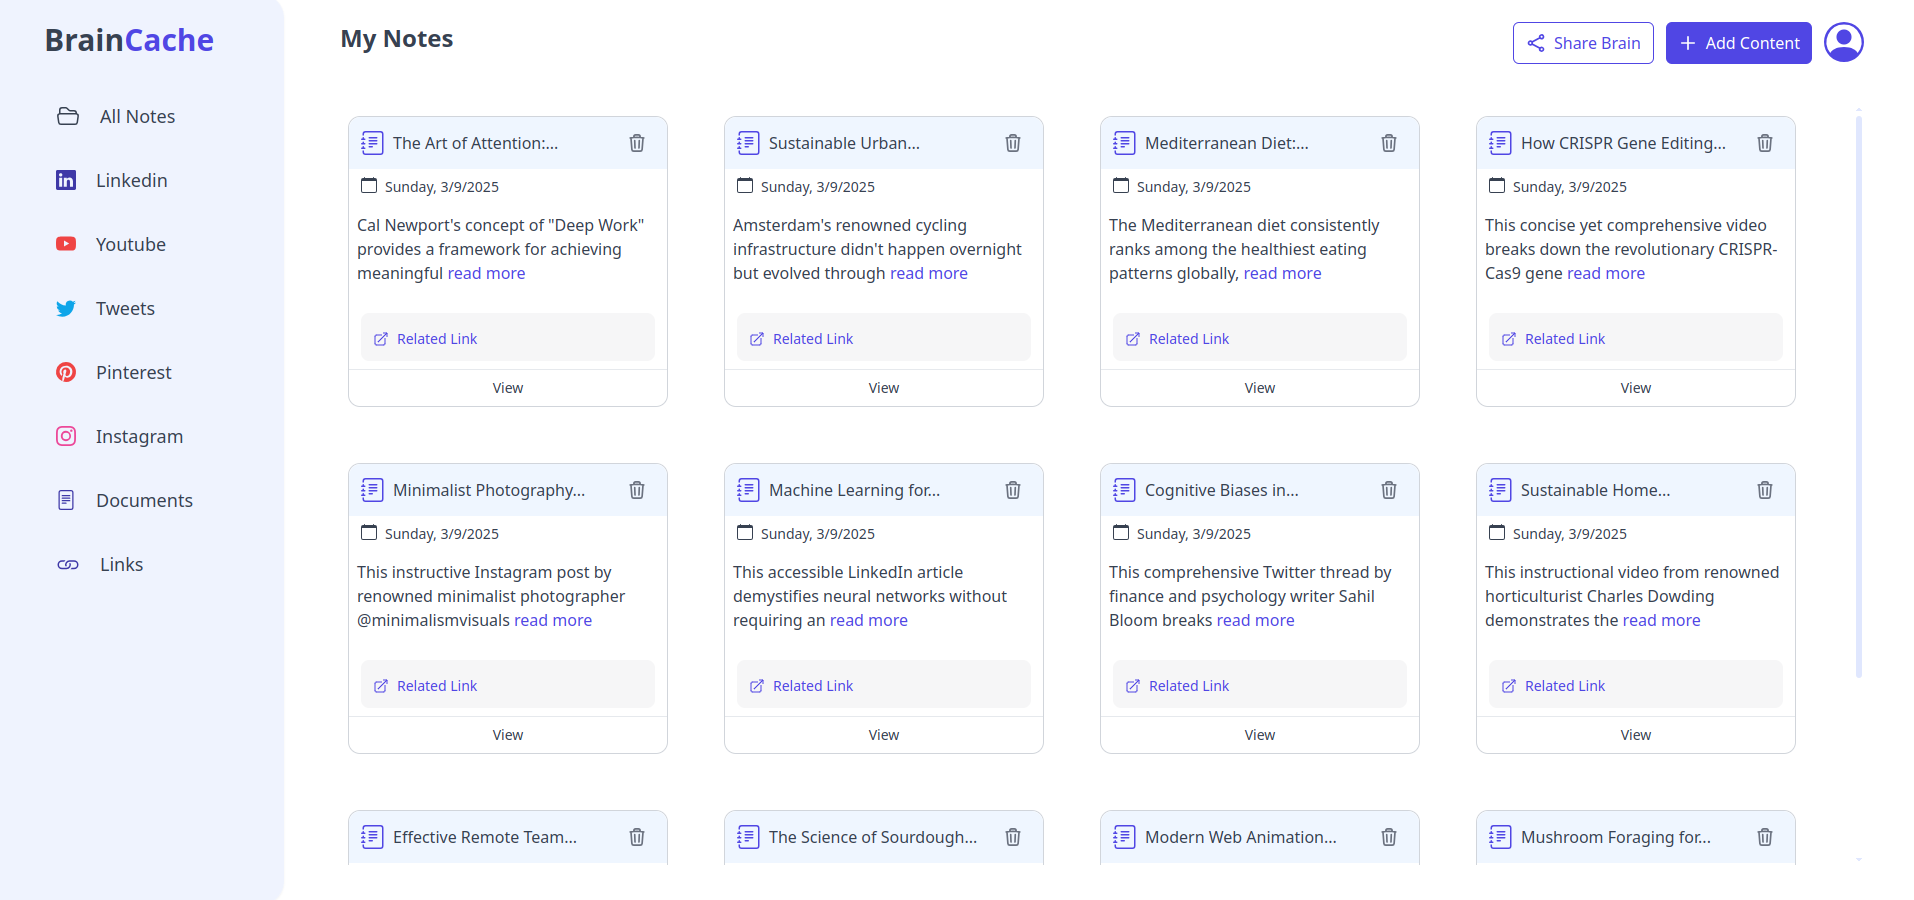
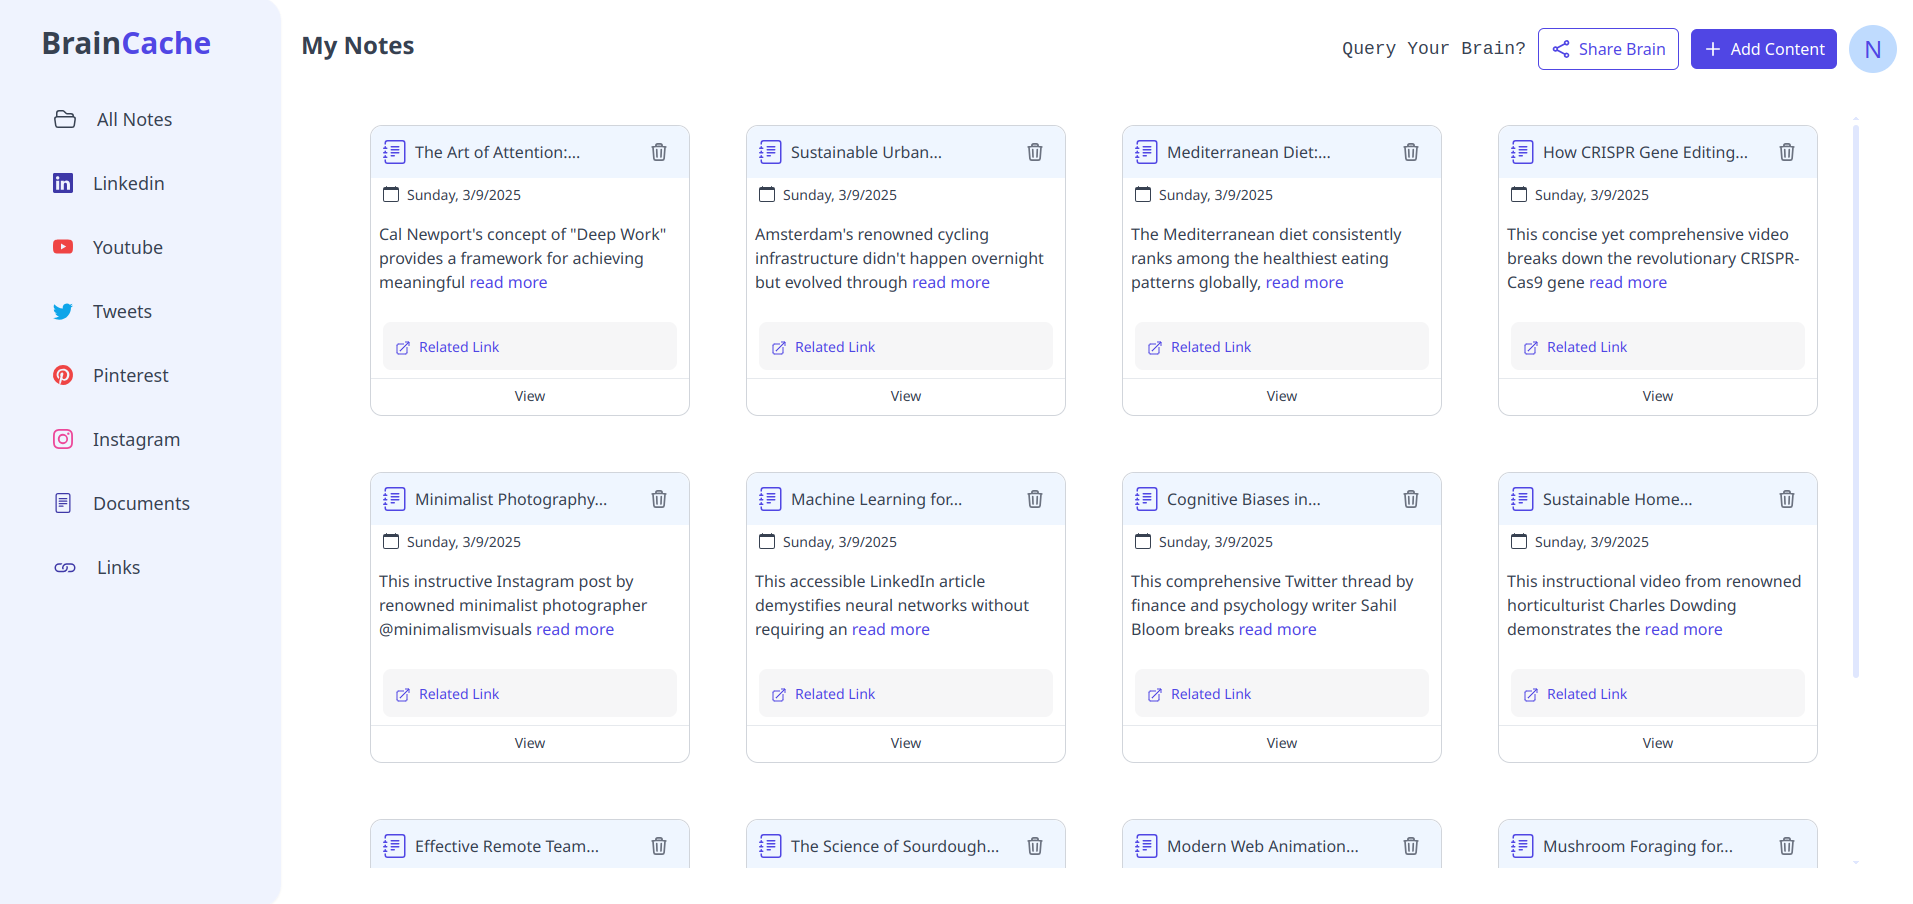
feat: enhance UI with animations and fix query functionality

diff --git a/client/src/Pages/QueryYourBrain.tsx b/client/src/Pages/QueryYourBrain.tsx
@@ -1,4 +1,4 @@
-import React, { useState } from 'react';
+import React, { KeyboardEvent, useState } from 'react';
 import { useRecoilState, useRecoilValue } from 'recoil';
 import { authState } from '../store/atoms/authState';
 import { ArrowUp } from '../icons/ArrowUp';
@@ -15,8 +15,8 @@ export const QueryYourBrain: React.FC = () => {
   const [IsAccountModelOpen, setIsAccountModelOpen] = useRecoilState(AccountModelStatus);
   const { fetchAiResponse } = useQuery();
 
-  const handleSubmit = async (e: React.FormEvent) => {
-    e.preventDefault();
+  const handleSubmit = async (e?: React.FormEvent) => {
+    if(e) e.preventDefault();
     setIsLoading(true);
     const result = await fetchAiResponse(query);
     setIsLoading(false);
@@ -24,8 +24,15 @@ export const QueryYourBrain: React.FC = () => {
     setQuery('');
   };
 
+  const handleKeyDown = (e: KeyboardEvent<HTMLTextAreaElement>) => {
+    if (e.key === 'Enter' && !e.shiftKey) {
+      e.preventDefault();
+      handleSubmit();
+    }
+  };
+
   return (
-    <div className="flex flex-col h-screen text-gray-700">
+    <div className="flex flex-col h-screen text-gray-700 z-0">
 
       <header className="flex items-center justify-between py-4 px-6">
         <div className="flex items-center">
@@ -35,7 +42,7 @@ export const QueryYourBrain: React.FC = () => {
           <div className="w-12 h-12 rounded-full bg-blue-200 flex items-center justify-center text-blue-600 font-medium text-2xl hover:cursor-pointer" onClick={() => setIsAccountModelOpen(prev => !prev)}>
             {auth.user?.username.charAt(0).toUpperCase()}
           </div>
-          {IsAccountModelOpen && <div className="fixed right-14 top-20">
+          {IsAccountModelOpen && <div className="fixed right-14 top-20 z-50">
             <AccountModel />
           </div>}
         </div>
@@ -55,6 +62,7 @@ export const QueryYourBrain: React.FC = () => {
                   placeholder="Query Brain"
                   rows={1}
                   value={query}
+                  onKeyDown={handleKeyDown}
                   onChange={(e) => setQuery(e.target.value)}
                   style={{ minHeight: '60px' }}
                 />

diff --git a/client/src/components/HeroSection.tsx b/client/src/components/HeroSection.tsx
@@ -26,10 +26,10 @@ export default function HeroSection() {
                 </div>
             </div>
             <div className='flex justify-center items-center relative'>
-                <div className="absolute inset-0 w-full md:w-[90%] h-full border-4 border-double border-blue-600 rounded-3xl animate-pulse mx-auto"></div>
+                <div className="absolute inset-0 w-[90%] h-full border-4 border-double border-blue-600 rounded-3xl animate-pulse mx-auto"></div>
                 <img src={Home} className="xl:block hidden w-[90%] h-full border-4 border-transparent rounded-3xl shadow-xl shadow-blue-400/55" alt="" />
                 <img src={Home2} className="md:block xl:hidden hidden w-[90%] h-full border-4 border-transparent rounded-3xl shadow-xl shadow-blue-400/55" alt="" />
-                <img src={Home3} className="block md:hidden w-full h-full border-4 border-transparent rounded-3xl shadow-xl shadow-blue-400/55" alt="" />
+                <img src={Home3} className="block md:hidden w-[90%] h-full border-4 border-transparent rounded-3xl shadow-xl shadow-blue-400/55" alt="" />
             </div>
             <Signup />
         </div>

diff --git a/client/src/components/FadeInOnScroll.tsx b/client/src/components/FadeInOnScroll.tsx
@@ -1,0 +1,47 @@
+import { useEffect, useRef, useState, ReactNode } from "react";
+
+interface FadeInOnScrollProps {
+  children: ReactNode;
+  delay?: number;
+}
+
+export const FadeInOnScroll = ({ children, delay = 0 }: FadeInOnScrollProps) => {
+  const [isVisible, setIsVisible] = useState(false);
+  const elementRef = useRef<HTMLDivElement | null>(null);
+
+  useEffect(() => {
+    const observer = new IntersectionObserver(
+      ([entry]) => {
+        if (entry.isIntersecting) {
+          setIsVisible(true);
+          observer.unobserve(entry.target);
+        }
+      },
+      {
+        threshold: 0.1,
+      }
+    );
+
+    if (elementRef.current) {
+      observer.observe(elementRef.current);
+    }
+
+    return () => {
+      if (elementRef.current) {
+        observer.unobserve(elementRef.current);
+      }
+    };
+  }, []);
+
+  return (
+    <div
+      ref={elementRef}
+      className={`transition-all duration-1000 ease-out
+        ${isVisible ? "opacity-100 translate-y-0" : "opacity-0 translate-y-10"}
+      `}
+      style={{ transitionDelay: `${delay}ms` }}
+    >
+      {children}
+    </div>
+  );
+};

diff --git a/server/src/controllers/queryContent.controller.ts b/server/src/controllers/queryContent.controller.ts
@@ -2,11 +2,13 @@ import { Request, Response } from "express";
 import { generateEmbedding } from "../services/embedding.service";
 import pineconeIndex from "../config/pinecone.index";
 import { generateResponse } from "../services/response.service";
-import { metadataProps, ContextItem } from "../types/contextProps.type";
+import { ContextItem } from "../types/contextProps.type";
+import CustomRequest from "../types/custom.type";
 
-export default async function queryContent(req: Request, res: Response){
+export default async function queryContent(req: CustomRequest, res: Response){
     try{
         const { query } = req.body;
+        const userId = req.userId;
 
         if(! query){
             return res.status(400).json({
@@ -60,7 +62,7 @@ export default async function queryContent(req: Request, res: Response){
         })
         .filter(item => item !== null);
 
-        const response = await generateResponse({query, context});
+        const response = await generateResponse({query, context, userId});
         return res.status(200).json({
             success: true,
             message: `Request successful`,

diff --git a/client/src/Pages/LandingPage.tsx b/client/src/Pages/LandingPage.tsx
@@ -7,6 +7,7 @@ import { AboutSection } from "../components/AboutSection";
 import { CtaSection } from "../components/CtaSection";
 import Footer from "../components/Footer";
 import Background from "../components/Background";
+import { FadeInOnScroll } from "../components/FadeInOnScroll";
 
 export default function LandingPage(){
     const featuresRef = useRef(null);
@@ -31,10 +32,10 @@ export default function LandingPage(){
             scrollToSection={scrollToSection}
         />
         <HeroSection />
-        <FeaturesSection ref={featuresRef}/>
-        <HowItWorksSection ref={howItWorksRef}/>
-        <AboutSection ref={aboutRef}/>
-        <CtaSection/>
-        <Footer/>
+        <FadeInOnScroll><FeaturesSection ref={featuresRef}/></FadeInOnScroll>
+        <FadeInOnScroll><HowItWorksSection ref={howItWorksRef}/></FadeInOnScroll>
+        <FadeInOnScroll><AboutSection ref={aboutRef}/></FadeInOnScroll>
+        <FadeInOnScroll><CtaSection/></FadeInOnScroll>
+        <FadeInOnScroll><Footer/></FadeInOnScroll>
     </div>
 }

diff --git a/server/src/services/response.service.ts b/server/src/services/response.service.ts
@@ -4,10 +4,18 @@ import { ResponseProps } from "../types/contextProps.type";
 export async function generateResponse(props: ResponseProps) {
     try {
 
-        const contextString = props.context.map(item => {
+        const userContext = props.context.filter((item) => {
+            return item.metadata.userId === props.userId;
+        })
+
+        if (userContext.length === 0) {
+            return "I couldn't find any relevant information in your brain. Please try a different query or add more content.";
+        }
+
+        const contextString = userContext.map(item => {
             return `Document ID: ${item.id}
-      Score: ${item.score}
-      Content: ${JSON.stringify(item.metadata, null, 6)}`;
+                    Score: ${item.score}
+                    Content: ${JSON.stringify(item.metadata, null, 6)}`;
         }).join('\n\n');
 
 

diff --git a/client/src/icons/Loader.tsx b/client/src/icons/Loader.tsx
@@ -1,3 +1,3 @@
 export function Loader() {
-    return <svg xmlns="http://www.w3.org/2000/svg" width="28" height="28" viewBox="0 0 24 24" fill="none" stroke="currentColor" strokeWidth="2" strokeLinecap="round" strokeLinejoin="round" className="lucide lucide-loader-circle text-gray-500"><path d="M21 12a9 9 0 1 1-6.219-8.56"/></svg>
+    return <svg xmlns="http://www.w3.org/2000/svg" width="28" height="28" viewBox="0 0 24 24" fill="none" stroke="currentColor" strokeWidth="2" strokeLinecap="round" strokeLinejoin="round" className="lucide lucide-loader-circle text-gray-300"><path d="M21 12a9 9 0 1 1-6.219-8.56"/></svg>
 }

diff --git a/server/src/types/contextProps.type.ts b/server/src/types/contextProps.type.ts
@@ -16,6 +16,7 @@ interface ContextItem {
 interface ResponseProps {
     query: string;
     context: Array<ContextItem>;
+    userId: string;
 }
 
 export { metadataProps, ContextItem, ResponseProps }; 
